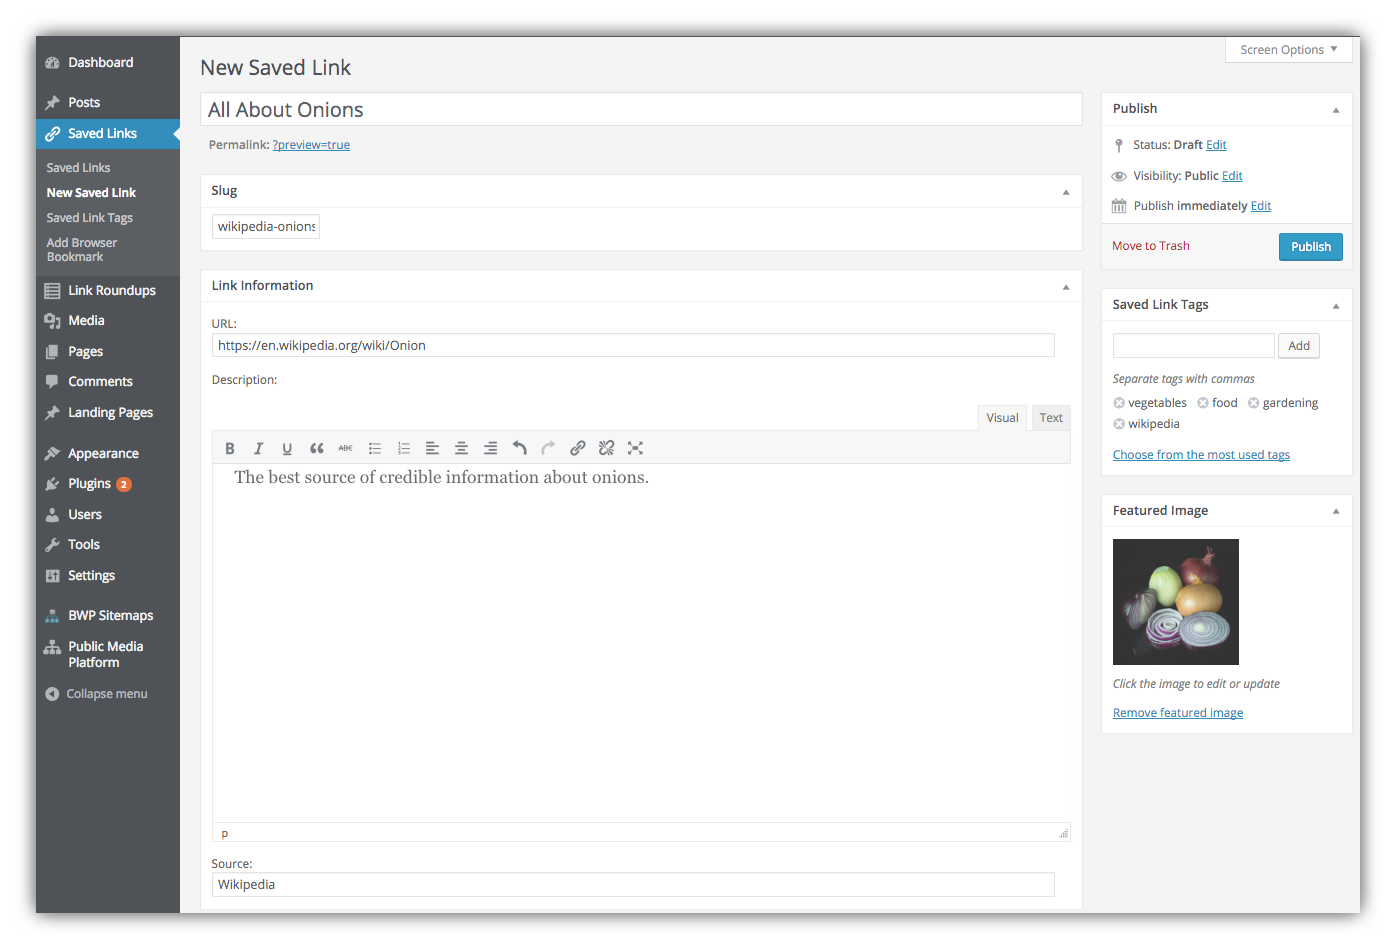
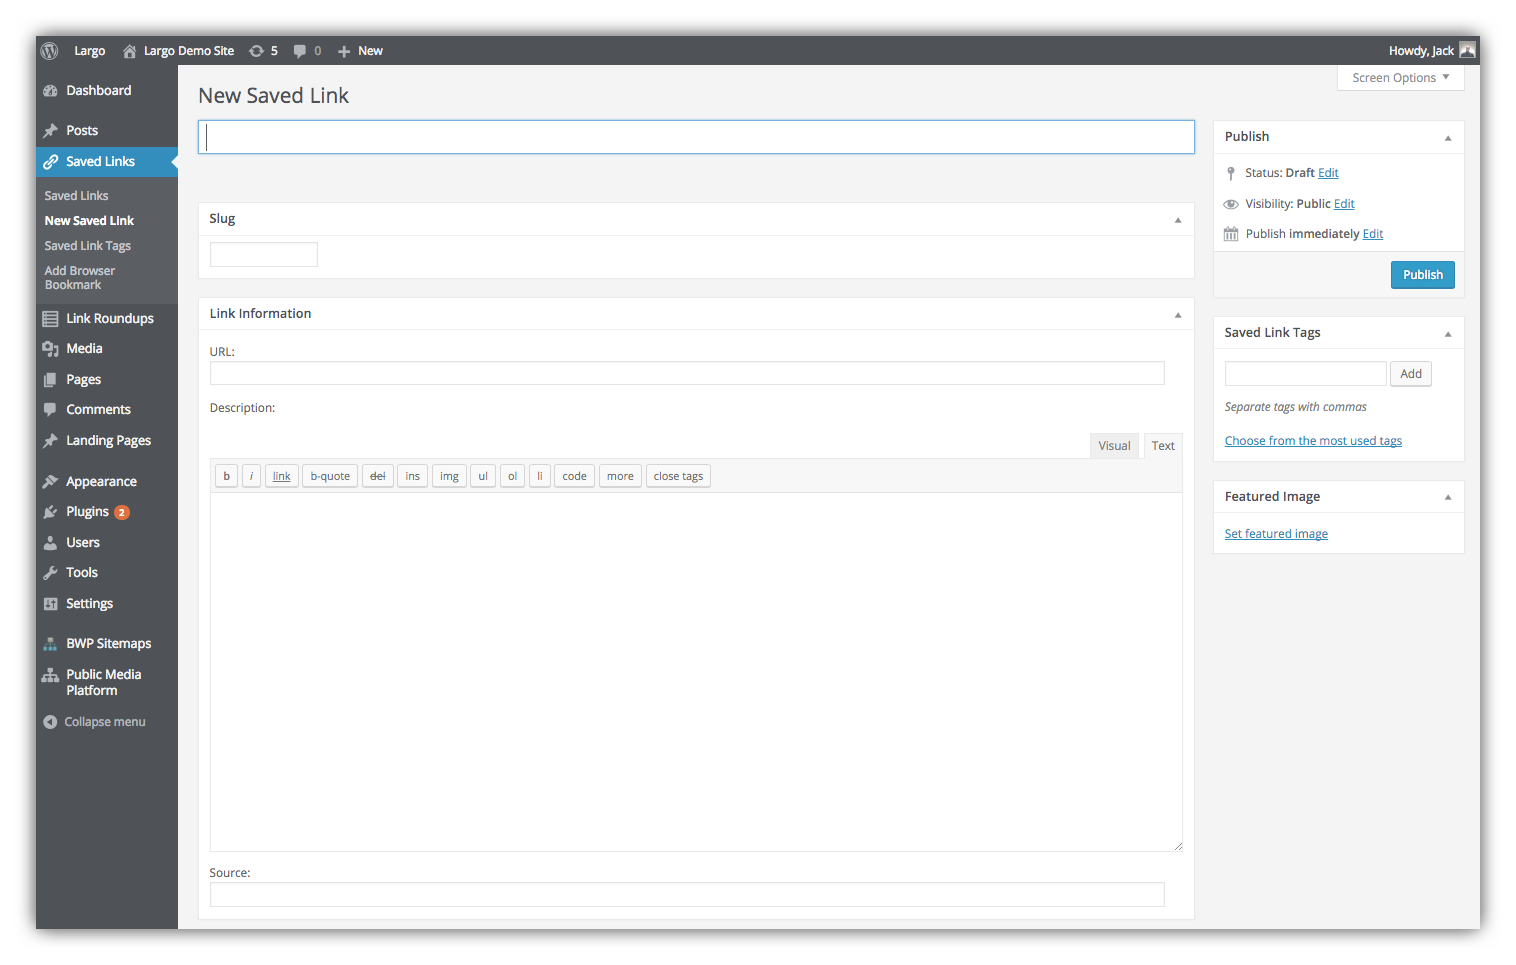
replace images

diff --git a/docs/saved-links.md b/docs/saved-links.md
@@ -24,11 +24,17 @@ Once you've [installed and activated the plugin](installation.md), you should se
 
 1. In WordPress find Saved Links in the main menu and navigate to New Saved Link.
 
-![Saved links area of the WordPress dashboard](img/all-saved-links.png)
+![Saved links area of the WordPress dashboard](img/new-saved-link-screen.png)
 
 2. Add a Title for your Link
 3. A URL is required, paste a valid URL in the URL field.
 3. Optionally define a custom slug, provide a short description and the source of your Saved Link.
+
+## Editing Saved Links
+
+Visit the dashboard screen under **Saved Links > Saved Links** to see all your Saved Links. You can edit them just like other post types. 
+
+![Saved links area of the WordPress dashboard](img/all-saved-links.png)
 
 ## Saved Links Widget
 
